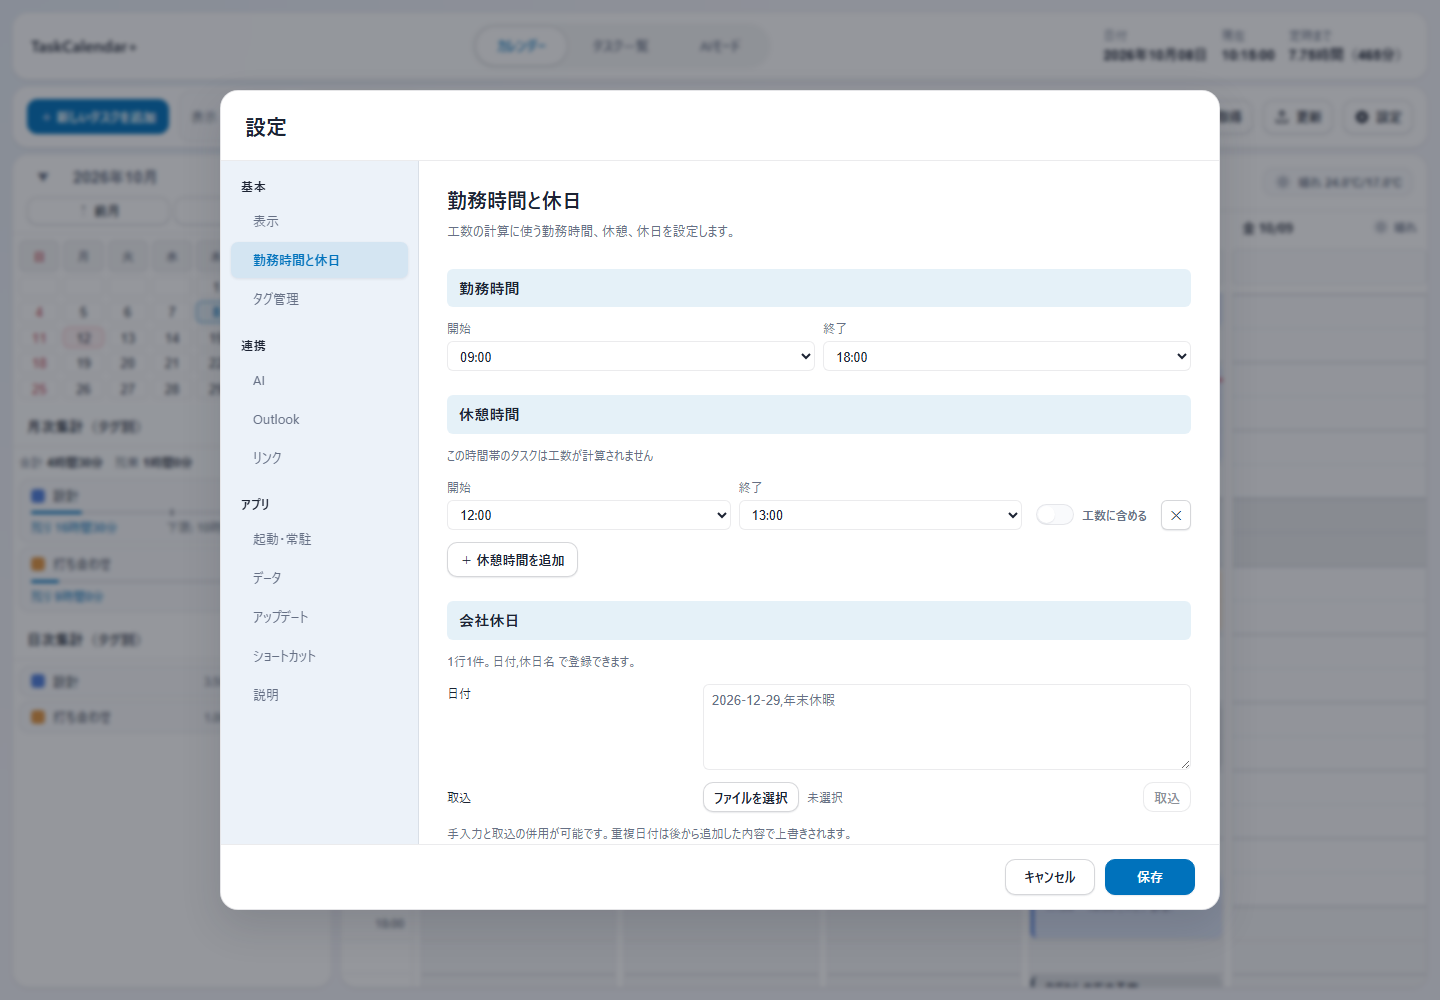
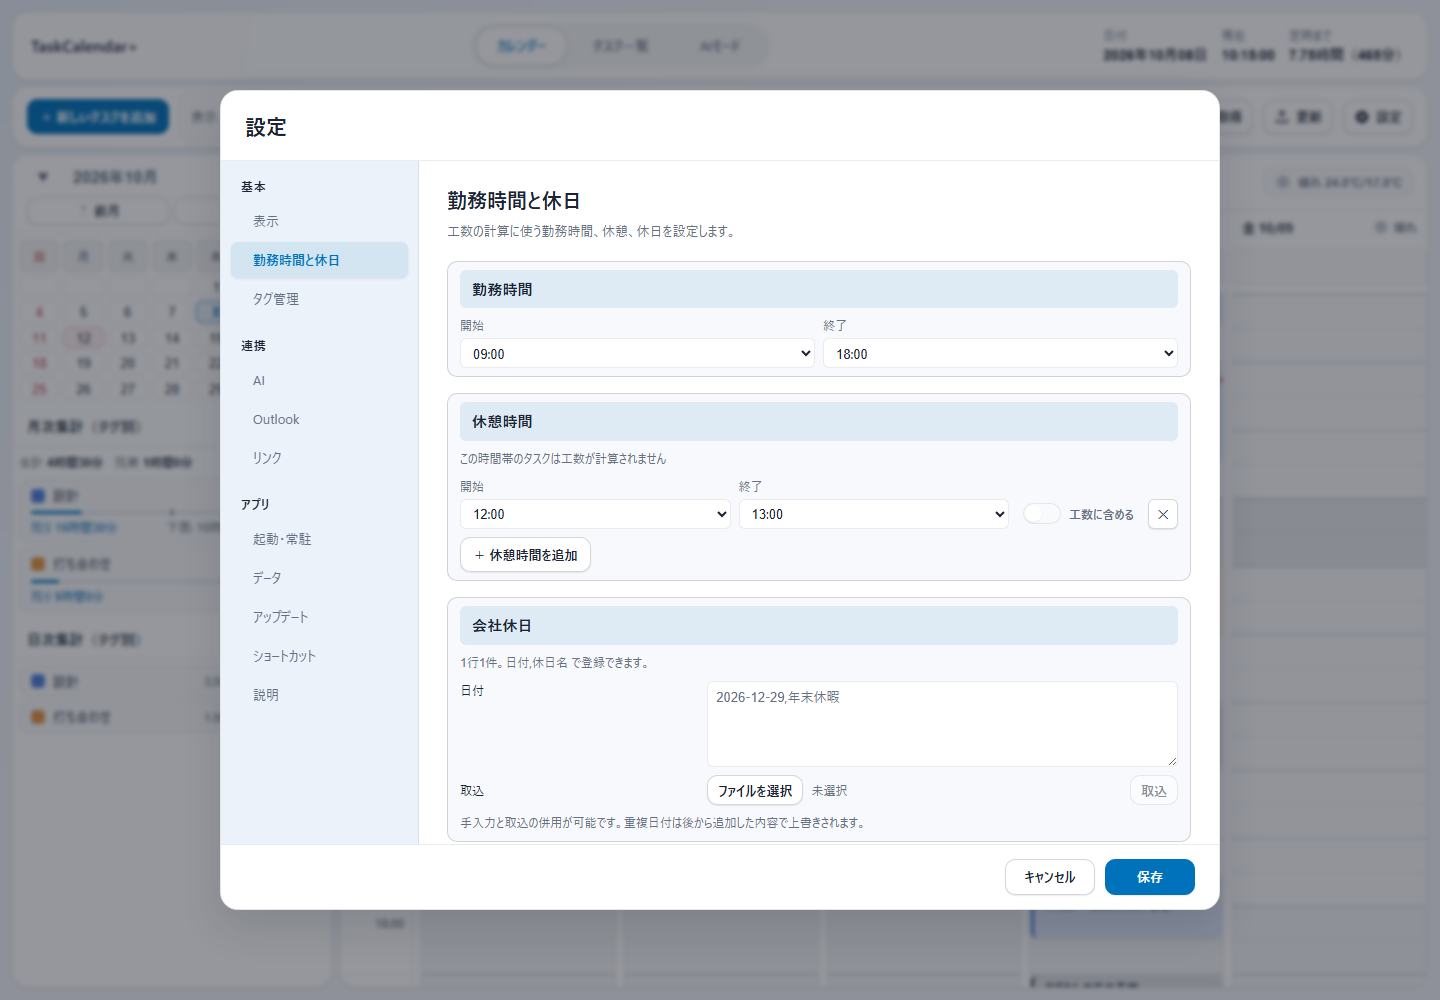
Stage refreshed pre.2 distribution and document ZIP download

diff --git a/docs/releases/v3.0.0-pre.2.md b/docs/releases/v3.0.0-pre.2.md
@@ -1,13 +1,23 @@
 # TaskCalendar+ v3.0.0-pre.2
 
-Windows x64向けの確認用プレリリースです。インストーラーを手動でダウンロードして利用してください。アプリ内更新では配布しません。
+Windows x64向けの確認用プレリリースです。EXEまたはインストーラー入りZIPを手動でダウンロードして利用してください。アプリ内更新では配布しません。
+
+## 2026-10-08 再公開の追加変更
+
+同じバージョン番号の配布ファイルを更新しました。以前のPre.2を使っている場合も、以下の変更には今回の配布ファイルでの再インストールが必要です。
+
+- 設定のグループに薄い枠と淡い背景色を追加。見出しの色帯・アクセントカラーの右揃えを維持。
+- 設定・全データのエクスポート時に、通常の保存先が「ダウンロード」フォルダーであることとファイル名を表示。
+- EXEに加え、同じインストーラーと署名ファイルを格納したZIPを追加。ZIPは展開してからインストーラーを実行してください。インストール不要版ではありません。
+
+ZIP形式でも、展開後の実行時にWindowsや組織のセキュリティ警告が出る場合があります。
 
 ## 変更内容
 
 - **Outlookの予定取得・登録で、アプリ用の識別情報が見つからないと強制終了する不具合を修正しました。** `Find`が正常に返す空オブジェクトを変換前に判定します。取得側と登録側の3か所を修正し、旧版でテストプロセスが強制終了した応答が修正後に正常処理されることを確認しました。
 - 月次の合計・残業を小さな横1行に集約。「4時間30分」「1時間0分」のように分まで表示します。日次はタグ別内訳のみを維持します。
 - カレンダー・タスク一覧・AI画面の外周を12pxの余白に統一し、画面下端の窮屈さを軽減しました。
-- 設定の目次を「基本・連携・アプリ」に整理。目次の背景と本文のグループ見出しの淡い色帯で階層を示し、各項目を囲う枠を減らしました。
+- 設定の目次を「基本・連携・アプリ」に整理。目次の背景、本文の見出し帯、グループ単位の枠と背景色で階層を示します。
 - アクセントカラーの色見本を右揃えにしました。
 - 設定項目名と操作欄を整列し、AIの設定内に重なっていた枠も整理しました。11ページと保存・取消の動作は維持しています。
 - v0.2.1の天気アイコン修正を取り込みました。保存された絵文字やアイコン名ではなく、天気コードから内蔵SVGを描画するため、旧キャッシュでもアイコンを表示できます。天気の説明は選択言語に従います。

diff --git a/README.md b/README.md
@@ -4,6 +4,8 @@
 
 **予定を入れる。作業時間を見渡す。日報にまとめる。**
 
+Pre.2は[EXE](https://github.com/t-ueda21/TaskCalendar-Plus/releases/download/v3.0.0-pre.2/TaskCalendar%2B_3.0.0-pre.2_x64-setup.exe)／[インストーラー入りZIP](https://github.com/t-ueda21/TaskCalendar-Plus/releases/download/v3.0.0-pre.2/TaskCalendar%2B_3.0.0-pre.2_x64-setup.zip)から手動で取得できます。[再公開の変更内容](docs/releases/v3.0.0-pre.2.md)を確認してください。ZIPは展開後にインストーラーを実行します。
+
 TaskCalendar+ は、予定と作業記録をカレンダーで管理する Windows アプリです。案件や作業の種類ごとにタグを付けると、一日・一か月の工数を集計できます。
 
 [Windows版をダウンロード](https://github.com/t-ueda21/TaskCalendar-Plus/releases/latest) ・ [変更履歴](CHANGELOG.md) ・ [サンプルデータ](docs/examples/sample-backup.json)
